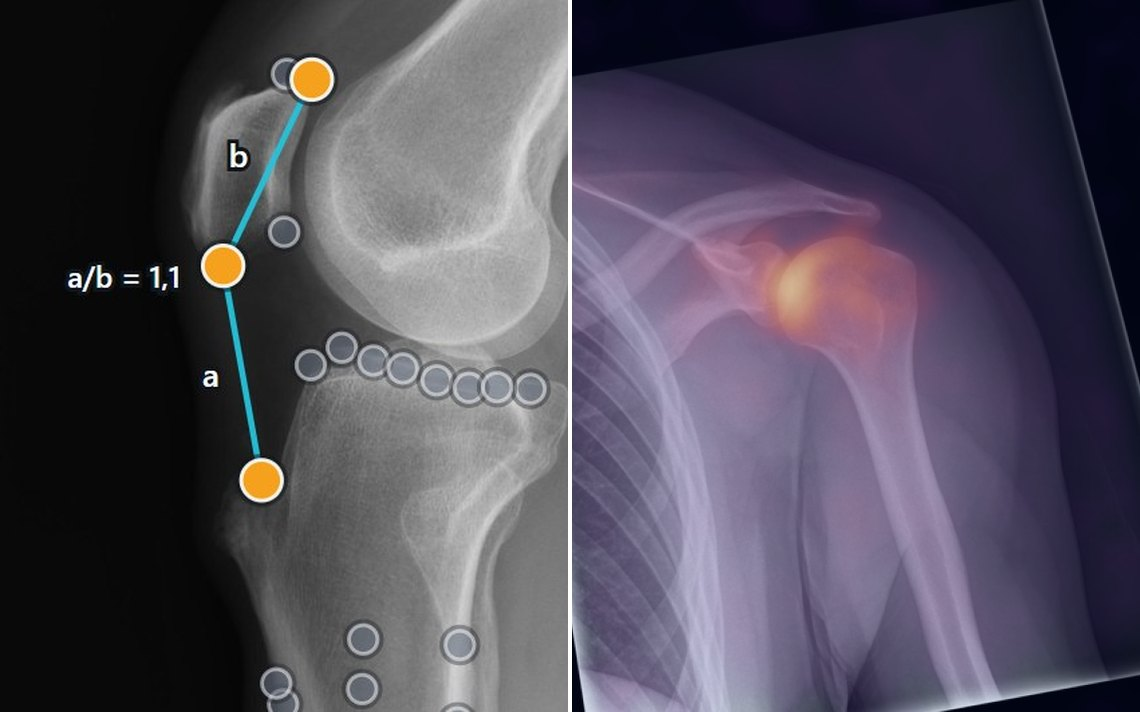
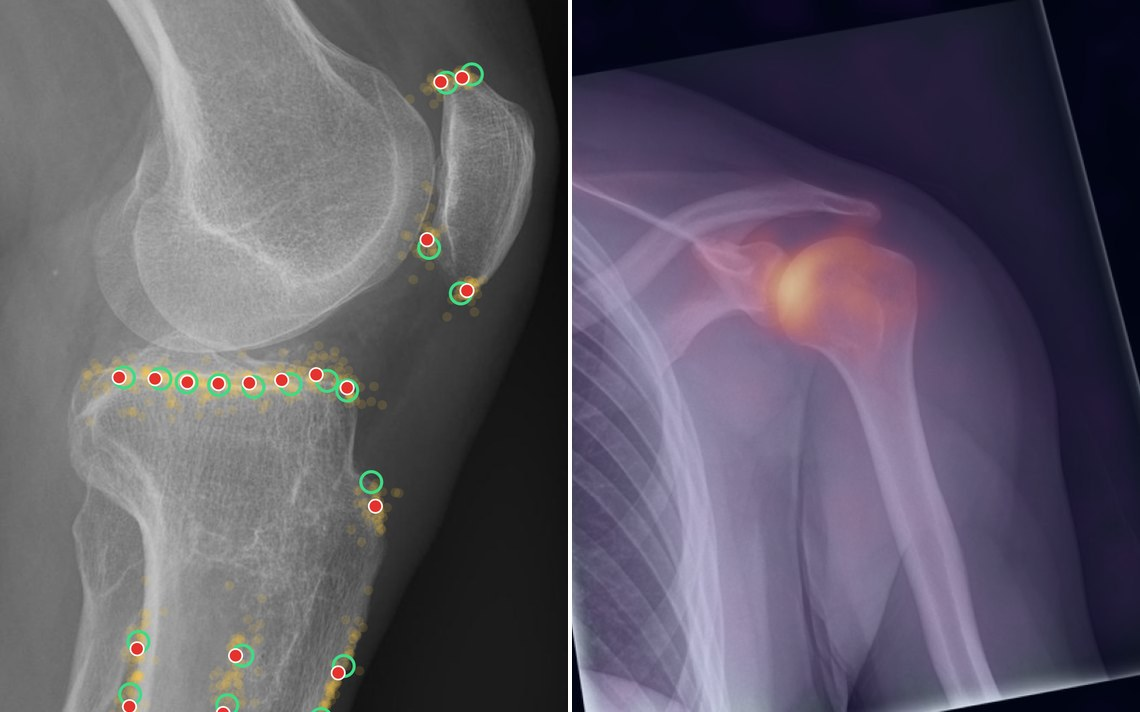
Replace left panel of radiography tile image

diff --git a/index.html b/index.html
@@ -71,7 +71,7 @@
 
       <details class="tile">
         <summary>
-          <figure><img loading="lazy" decoding="async" src="assets/img/work-radiography.jpg" width="1140" height="712" alt="A knee radiograph with automatically placed landmarks and a measured ratio, next to a shoulder radiograph with a heatmap of the matched landmark position"></figure>
+          <figure><img loading="lazy" decoding="async" src="assets/img/work-radiography.jpg" width="1140" height="712" alt="A lateral knee radiograph with landmarks transferred from 40 reference radiographs, their median and the expert annotation, next to a shoulder radiograph with a heatmap of the matched landmark position"></figure>
           <div class="tile-b">
             <span class="label kw">MRI <i>·</i> CT <i>·</i> X-ray <i>·</i> Foundation Models <i>·</i> CNNs</span>
             <h3>Reassessing established reference values for morphometry on radiographs</h3>
